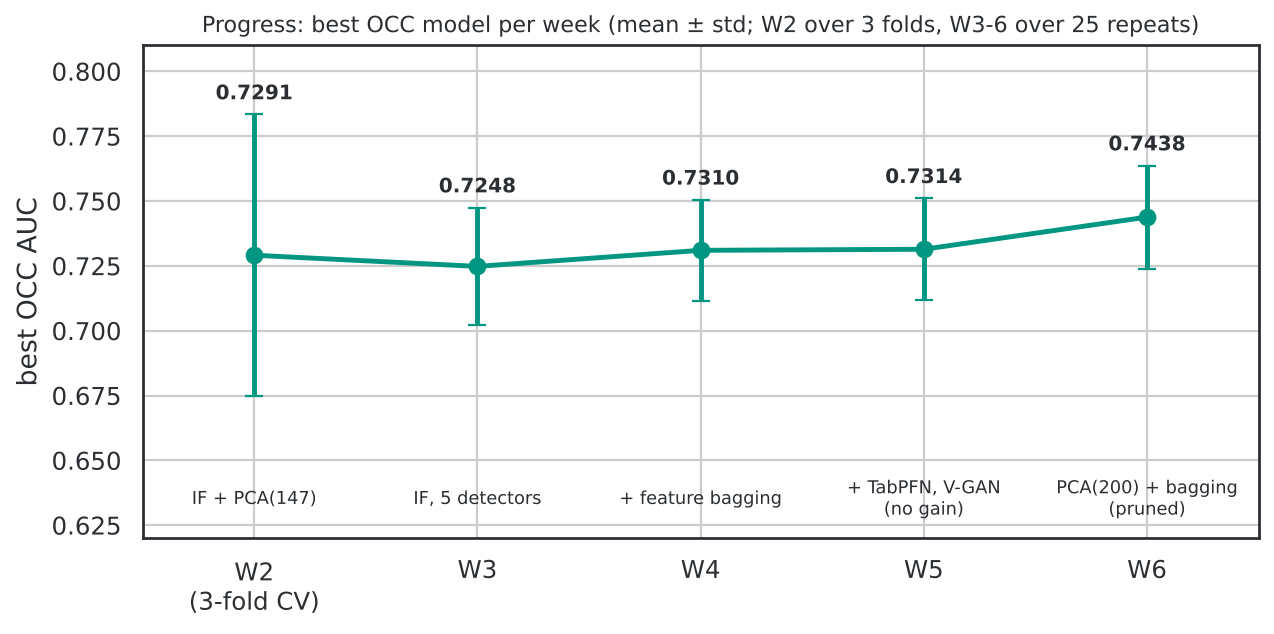
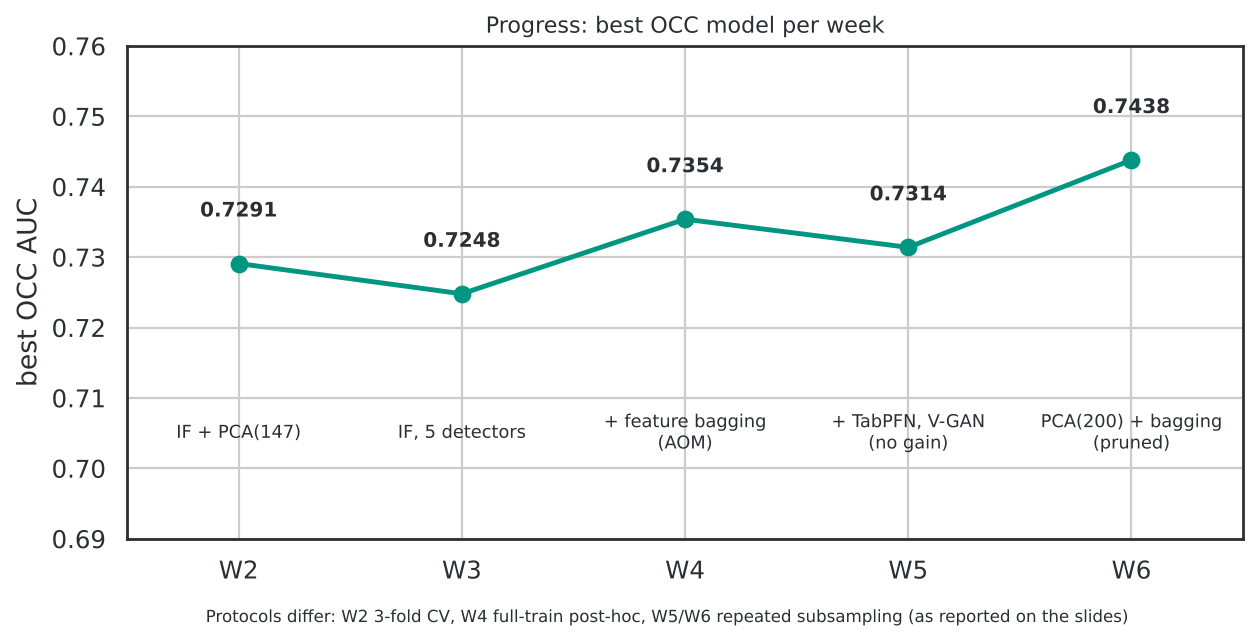
Add slide figures and align progress plot with reported values
Claude-Session: https://claude.ai/code/session_01Q4uyWSe1r24ERVRtD2jjDL

Changed region(s): [[0.0, 0.03, 0.9913, 0.989], [0.3098, 0.6593, 0.4337, 0.6893]]

diff --git a/plots/plot_process_figures.py b/plots/plot_process_figures.py
@@ -234,23 +234,24 @@ def fig_hpo() -> None:
 
 
 def fig_progress() -> None:
-	"""Best OCC AUC per week (25-repeat protocol unless noted; values from the weekly tables)."""
-	weeks = ["W2\n(3-fold CV)", "W3", "W4", "W5", "W6"]
-	auc = [0.7291, 0.7248, 0.7310, 0.7314, 0.7438]
-	std = [0.0543, 0.0227, 0.0195, 0.0197, 0.0199]
-	labels = ["IF + PCA(147)", "IF, 5 detectors", "+ feature bagging", "+ TabPFN, V-GAN\n(no gain)",
+	"""Best OCC AUC per week (values from the weekly slides / Phase 2 report; protocols differ per week)."""
+	weeks = ["W2", "W3", "W4", "W5", "W6"]
+	auc = [0.7291, 0.7248, 0.7354, 0.7314, 0.7438]
+	labels = ["IF + PCA(147)", "IF, 5 detectors", "+ feature bagging\n(AOM)", "+ TabPFN, V-GAN\n(no gain)",
 		"PCA(200) + bagging\n(pruned)"]
 	fig, ax = plt.subplots(figsize=(9, 4))
 	x = np.arange(len(weeks))
-	ax.errorbar(x, auc, yerr=std, color=TEAL, marker="o", lw=2.2, capsize=4, ms=7)
-	for xi, a, sd, l in zip(x, auc, std, labels):
-		ax.text(xi, a + sd + 0.004, f"{a:.4f}", ha="center", va="bottom", fontsize=9, fontweight="bold")
-		ax.text(xi, 0.635, l, ha="center", va="center", fontsize=8, color=DARK)
+	ax.plot(x, auc, color=TEAL, marker="o", lw=2.2, ms=7)
+	for xi, a, l in zip(x, auc, labels):
+		ax.text(xi, a + 0.006, f"{a:.4f}", ha="center", va="bottom", fontsize=9, fontweight="bold")
+		ax.text(xi, 0.705, l, ha="center", va="center", fontsize=8, color=DARK)
 	ax.set_xticks(x, weeks)
-	ax.set_ylim(0.62, 0.81)
+	ax.set_ylim(0.69, 0.76)
 	ax.set_xlim(-0.5, 4.5)
 	ax.set_ylabel("best OCC AUC")
-	ax.set_title("Progress: best OCC model per week (mean ± std; W2 over 3 folds, W3-6 over 25 repeats)", fontsize=10)
+	ax.set_title("Progress: best OCC model per week", fontsize=10)
+	fig.text(0.5, -0.02, "Protocols differ: W2 3-fold CV, W4 full-train post-hoc, W5/W6 repeated subsampling (as reported on the slides)",
+		ha="center", fontsize=7.5, color=DARK)
 	save(fig, "07_progress.png")
 
 

diff --git a/docs/FULL_DOCUMENTATION.md b/docs/FULL_DOCUMENTATION.md
@@ -23,7 +23,7 @@ verification only — never for training or tuning — per the task rules.
 
 ![Best OCC AUC per week](figures/07_progress.png)
 
-W2 is a 3-fold CV mean, W3-W6 are means over 25 repeated subsamples (inlier-only fit), so the first point is not strictly comparable. All figures are produced by `plots/plot_process_figures.py` from the per-repeat AUC matrices in `outputs/` and `week6-tables/`. The Week 1 and Week 2 panels and the final test AUC use the published table values.
+The values are the ones reported on the weekly slides and in the Phase 2 report; the protocols differ (W2 3-fold CV mean, W4 full-train post-hoc, W5-W6 means over 25 repeated subsamples with inlier-only fit), so the points are not strictly comparable. All figures are produced by `plots/plot_process_figures.py` from the per-repeat AUC matrices in `outputs/` and `week6-tables/`. The Week 1 and Week 2 panels and the final test AUC use the published table values.
 
 ## Data
 
@@ -86,7 +86,7 @@ The core (`p53_od_pipeline.py`, `split_data.py`, `mrmr_ifs.py`) lives in the rep
 | `benchmarks/benchmark_inne_pca200_tuned.py` | 6 | Step 2: tuned INNE transferred from PCA(147) to PCA(200) |
 | `benchmarks/benchmark_inne_pca200_feature_bagging.py` | 6 | Step 3: feature bagging with tuned INNE at PCA(200) |
 | `benchmarks/benchmark_final_train_test_auc.py` | 6 | Final refit on all train data and scoring of the held-out test set (OCC and SMOTE models), writes `outputs/final_train_test_auc.csv` |
-| `plots/plot_process_figures.py` | 1–6 | The eight process figures used in the README and this document (pipeline, data, reduction, detectors, bagging, HPO, progress, final AUC), written to `docs/figures/`. Reads the per-repeat AUC matrices |
+| `plots/plot_process_figures.py` | 1–6 | The eight generated process figures (09-17 are slide extracts); used in the README and this document (pipeline, data, reduction, detectors, bagging, HPO, progress, final AUC), written to `docs/figures/`. Reads the per-repeat AUC matrices |
 | `plots/plot_week6_step1_boxplots.py`, `plots/plot_week6_step3_boxplots.py` | 6 | Boxplots written to `week6-tables/`. They draw 25 samples from N(mean, std) of the published table values, not the real per-repeat AUCs |
 | `tools/eval_internal_test_auc.py` | 2–6 | Scores a saved prediction against the held-back test labels (own check, not part of the pipeline) |
 | `tools/make_synthetic_data.py` | – | Random demo data in the raw format, so the code can run without the real data |
@@ -174,6 +174,10 @@ on a compute server; results are copied back and plotted in the notebook).
 Not required to reproduce the pipeline above. The raw-data preview in cell 2 has no output here because the data is not published.
 
 ## Week 1 — key findings
+
+![PCA: cumulative explained variance (slide, Week 1)](figures/09_pca_explained_variance.png)
+
+![Pearson, Spearman and mutual information over all 5,408 features (slide, Week 1)](figures/10_correlation_matrices.png)
 
 - Raw: 31,020 rows × 5,408 features (2D electrostatic/surface block,
   3D distance-based block) + 1 empty parsing artifact column
@@ -327,6 +331,8 @@ python p53_od_pipeline.py --method isolation_forest --reduce pca --n-components 
 single-method runs.)
 
 ### Step A — comparing OCC methods across all three families
+
+![Detector concepts: LOF/KNN, Isolation Forest, ABOD, OCSVM (slides, Week 3)](figures/11_detector_concepts.png)
 
 OD methods are grouped into three families: **locality-based**
 (LOF, KNN), **cluster-based** (OCSVM), **subspace-based**
@@ -634,6 +640,8 @@ aggregation variants.
 
 ### Step 1 — new OD methods
 
+![Week 5: detector boxplots incl. TabPFN and Deep SVDD (slide)](figures/15_week5_detector_boxplots.png)
+
 **TabPFN** (`--method tabpfn`) added: a zero-shot tabular foundation model,
 repurposed for unsupervised OD via Prior Labs' `TabPFNUnsupervisedModel`
 (estimates per-sample likelihood; low likelihood = anomalous). `fit(X)`
@@ -684,6 +692,12 @@ python p53_od_pipeline.py --stat-test outputs/week5_compare.csv \
 ```
 
 ### Step 2 — feature bagging: new aggregations + subspace source (Isolation Forest only)
+
+![Feature bagging with Pruned and Damped aggregation (slide)](figures/12_feature_bagging_concept.png)
+
+![V-GAN subspace generator (slide)](figures/13_vgan_subspace_generator.png)
+
+![Bagging: random vs. V-GAN subspaces (slide)](figures/16_week5_bagging_random_vs_vgan.png)
 
 Restricted to Isolation Forest only this step — feature bagging costs
 `n_repeats x n_subsets` fits, too expensive for TabPFN at 25 repeats. Two
@@ -761,6 +775,10 @@ python p53_od_pipeline.py --stat-test outputs/week5_feature_bagging.csv \
 ```
 
 ### Step 3 — heterogeneous ensemble: Top-3 from Step 1
+
+![Heterogeneous ensemble concept with TabPFN (slide)](figures/14_heterogeneous_ensemble_concept.png)
+
+![Ensemble boxplots (slide)](figures/17_week5_ensemble_boxplots.png)
 
 `isolation_forest`, `tabpfn`, `knn` (Step 1's Top-3) combined on the same
 full 147-dim. feature space (no subspace split — opposite of Step 2).

diff --git a/README.md b/README.md
@@ -43,6 +43,10 @@ Exploratory only (not OCC, uses labels through SMOTE): GMD + LOF + Random Projec
 
 ![Dimensionality reduction](docs/figures/03_dimensionality_reduction.png)
 
+![Detector families compared in Week 3 (from the slides)](docs/figures/11_detector_concepts.png)
+
+![Week 5: detector boxplots incl. TabPFN and Deep SVDD (from the slides)](docs/figures/15_week5_detector_boxplots.png)
+
 ![Hyperparameter optimization](docs/figures/06_hpo.png)
 
 Details, tables and significance results for every week: [docs/FULL_DOCUMENTATION.md](docs/FULL_DOCUMENTATION.md).
